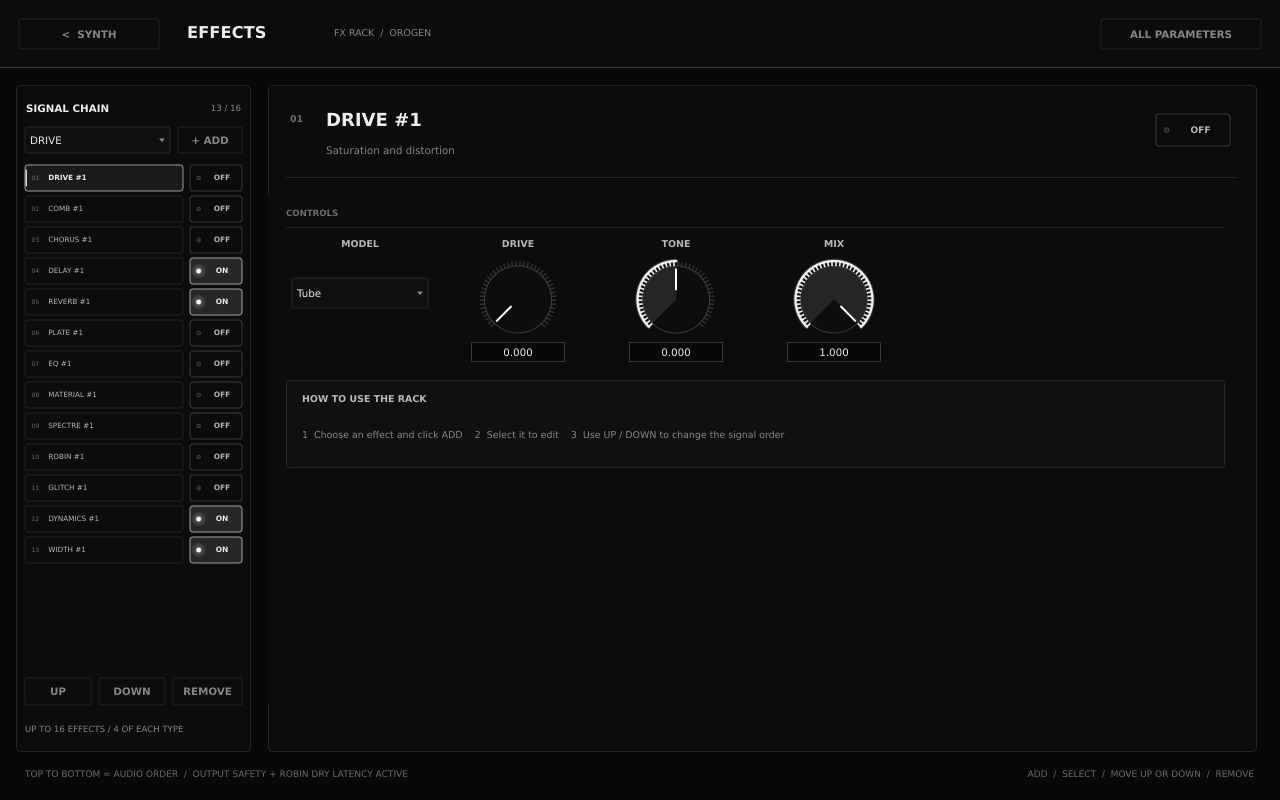
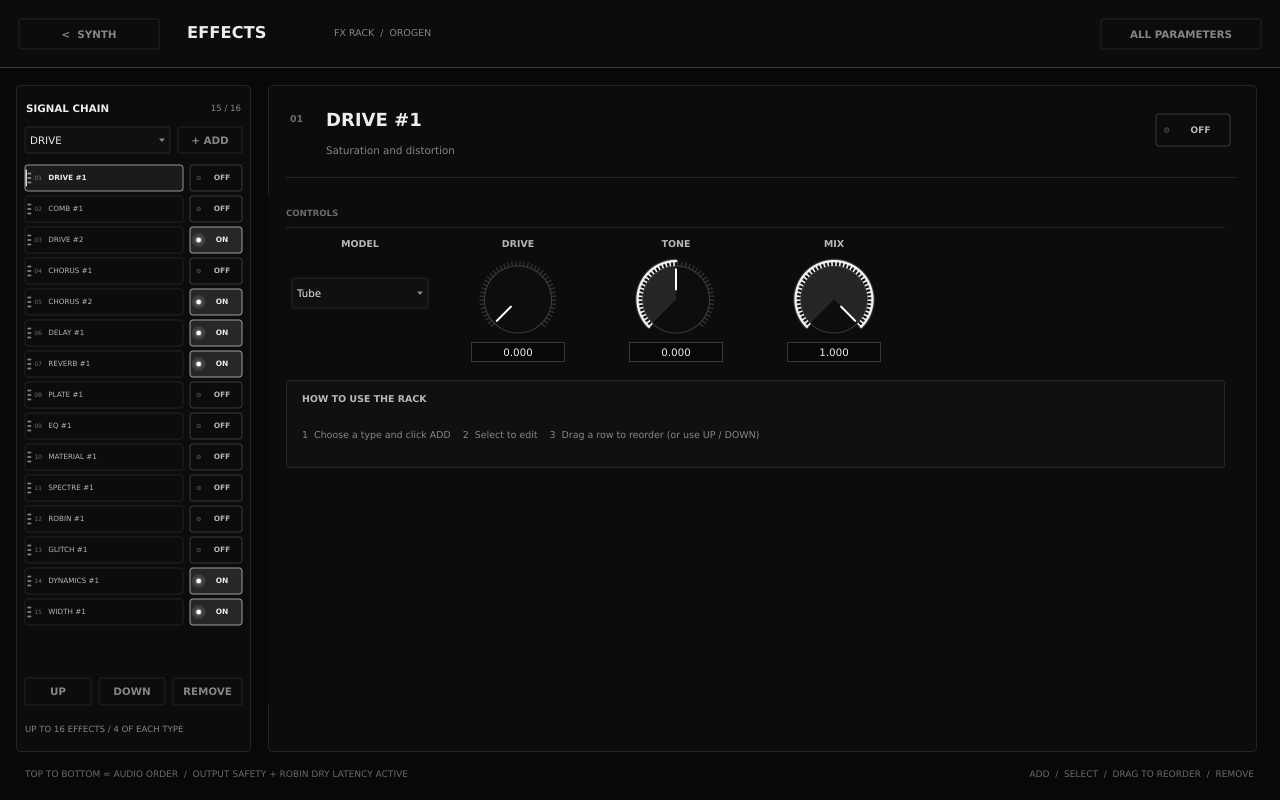
Add FX rack drag reorder

diff --git a/orogen-plugin/src/plugin/PluginEditor.cpp b/orogen-plugin/src/plugin/PluginEditor.cpp
@@ -840,15 +840,41 @@ class OrogenEditor::FxPage : public juce::Component, private juce::Timer
     class SelectButton : public juce::Button
     {
     public:
-        SelectButton (int n, const juce::String& title) : juce::Button (title), number (n) {}
+        SelectButton (int n, const juce::String& title) : juce::Button (title), nodeId (n), position (n) {}
         void setSelected (bool b) { selected = b; repaint(); }
-        void setPosition (int n) { number = n; repaint(); }
+        void setPosition (int n) { position = n; repaint(); }
+        void setDropTarget (bool b) { if (dropTarget != b) { dropTarget = b; repaint(); } }
+        std::function<void (int, juce::Point<int>)> onDragTo;
+        std::function<void (int)> onDragEnd;
+
+        void mouseDown (const juce::MouseEvent& e) override
+        {
+            dragging = false;
+            juce::Button::mouseDown (e);
+        }
+        void mouseDrag (const juce::MouseEvent& e) override
+        {
+            juce::Button::mouseDrag (e);
+            if (! dragging && e.getDistanceFromDragStart() >= 5)
+            {
+                dragging = true;
+                repaint();
+            }
+            if (dragging && onDragTo) onDragTo (nodeId, e.getScreenPosition());
+        }
+        void mouseUp (const juce::MouseEvent& e) override
+        {
+            juce::Button::mouseUp (e);
+            if (dragging && onDragEnd) onDragEnd (nodeId);
+            dragging = false;
+            repaint();
+        }
         void paintButton (juce::Graphics& g, bool over, bool down) override
         {
             auto box = getLocalBounds().toFloat().reduced (0.5f);
-            draw::panel (g, box, 3.0f, selected ? juce::Colour (0xff1b1b1b)
-                                                : over || down ? Palette::panelAlt : Palette::panel,
-                         selected ? Palette::lineHi : Palette::line);
+            const auto outline = dropTarget || dragging || selected ? Palette::lineHi : Palette::line;
+            draw::panel (g, box, 3.0f, selected || dragging ? juce::Colour (0xff1b1b1b)
+                                                : over || down ? Palette::panelAlt : Palette::panel, outline);
             const float scale = juce::jlimit (0.70f, 2.0f, box.getHeight() / 39.0f);
             if (selected)
             {
@@ -856,10 +882,20 @@ class OrogenEditor::FxPage : public juce::Component, private juce::Timer
                 g.fillRoundedRectangle (box.getX() + 1.0f, box.getY() + 7.0f * scale,
                                         2.0f * scale, box.getHeight() - 14.0f * scale, 1.0f);
             }
+            // Three small grip bars make the row's drag affordance visible
+            // without stealing the number or effect name.
+            g.setColour (dragging || over ? Palette::text : Palette::textDim);
+            const float gripX = box.getX() + 4.0f * scale;
+            const float gripW = juce::jmax (4.0f, 5.0f * scale);
+            const float gripH = juce::jmax (1.75f, 2.0f * scale);
+            const float gripGap = juce::jmax (4.5f, 6.0f * scale);
+            for (int i = -1; i <= 1; ++i)
+                g.fillRoundedRectangle (gripX, box.getCentreY() + i * gripGap - gripH * 0.5f,
+                                        gripW, gripH, 0.8f);
             g.setColour (Palette::textFaint);
             g.setFont (orFont (10.0f * scale));
-            g.drawText (juce::String (number + 1).paddedLeft ('0', 2),
-                        juce::Rectangle<float> (box.getX() + 10 * scale, box.getY(), 23 * scale, box.getHeight()),
+            g.drawText (juce::String (position + 1).paddedLeft ('0', 2),
+                        juce::Rectangle<float> (box.getX() + 14 * scale, box.getY(), 18 * scale, box.getHeight()),
                         juce::Justification::centredLeft, false);
             g.setColour (selected ? Palette::text : Palette::paramLabel);
             g.setFont (orFont (12.0f * scale, selected));
@@ -867,10 +903,17 @@ class OrogenEditor::FxPage : public juce::Component, private juce::Timer
                         juce::Rectangle<float> (box.getX() + 34 * scale, box.getY(),
                                                 box.getWidth() - 42 * scale, box.getHeight()),
                         juce::Justification::centredLeft, false);
+            if (dropTarget)
+            {
+                g.setColour (Palette::text);
+                g.fillRect (box.getX() + 5.0f * scale, box.getBottom() - 1.5f * scale,
+                            box.getWidth() - 10.0f * scale, 1.0f * scale);
+            }
         }
     private:
-        int number;
-        bool selected = false;
+        const int nodeId;
+        int position;
+        bool selected = false, dragging = false, dropTarget = false;
     };
 
     class Control : public juce::Component
@@ -1142,7 +1185,7 @@ class OrogenEditor::FxPage : public juce::Component, private juce::Timer
                             w - juce::roundToInt (32*s), juce::roundToInt (18*s), juce::Justification::centredLeft, false);
                 g.setColour (Palette::textDim);
                 g.setFont (orFont (11.0f * s));
-                g.drawFittedText ("1  Choose an effect and click ADD    2  Select it to edit    3  Use UP / DOWN to change the signal order",
+                g.drawFittedText ("1  Choose a type and click ADD    2  Select to edit    3  Drag a row to reorder (or use UP / DOWN)",
                                   juce::Rectangle<int> (x + juce::roundToInt (16*s), y + juce::roundToInt (36*s),
                                                         w - juce::roundToInt (32*s), juce::roundToInt (37*s)),
                                   juce::Justification::centredLeft, 2);
@@ -1226,7 +1269,9 @@ public:
             const auto title = juce::String (kFxModules[module].name) + " #" + juce::String (copy + 1);
             auto* button = new SelectButton (node, title);
             button->onClick = [this, node] { setSelected (node); };
-            button->setTooltip ("Select " + title + " to edit its independent controls");
+            button->onDragTo = [this] (int source, juce::Point<int> screenPoint) { dragRackTo (source, screenPoint); };
+            button->onDragEnd = [this] (int) { dragHighlightNode = -1; refreshDropTarget(); repaint(); };
+            button->setTooltip ("Click to select; drag the grip to reorder in the signal chain");
             button->getProperties().set ("fxSelect", node);
             selectButtons.add (button); addChildComponent (button);
             auto* power = new PowerButton (title + " power");
@@ -1264,6 +1309,30 @@ public:
     void timerCallback() override
     {
         if (isShowing() && proc.rackOrder() != order) refreshOrder();
+    }
+    void refreshDropTarget()
+    {
+        for (int node = 0; node < selectButtons.size(); ++node)
+            selectButtons[node]->setDropTarget (node == dragHighlightNode);
+    }
+    void dragRackTo (int node, juce::Point<int> screenPoint)
+    {
+        const auto source = std::find (order.begin(), order.end(), node);
+        if (source == order.end() || order.empty()) return;
+        const float scale = (float) getWidth() / OrogenEditor::kDesignW;
+        const int localY = getLocalPoint (nullptr, screenPoint).y;
+        const float designY = (float) localY / juce::jmax (0.01f, scale);
+        const int targetIndex = juce::jlimit (0, (int) order.size() - 1,
+                                              juce::roundToInt ((designY - 178.0f) / 31.0f));
+        dragHighlightNode = node;
+        const int from = (int) std::distance (order.begin(), source);
+        if (targetIndex != from && proc.moveRackNode (node, targetIndex - from))
+        {
+            status = "MOVED TO POSITION " + juce::String (targetIndex + 1).paddedLeft ('0', 2);
+            refreshOrder();
+        }
+        refreshDropTarget();
+        repaint();
     }
     void setSelected (int node)
     {
@@ -1361,7 +1430,7 @@ public:
         g.setColour (Palette::textFaint); g.setFont (orFont (10.5f));
         g.drawText ("TOP TO BOTTOM = AUDIO ORDER  /  OUTPUT SAFETY + ROBIN DRY LATENCY ACTIVE",
                     25, 764, 720, 19, juce::Justification::centredLeft, false);
-        g.drawText ("ADD  /  SELECT  /  MOVE UP OR DOWN  /  REMOVE",
+        g.drawText ("ADD  /  SELECT  /  DRAG TO REORDER  /  REMOVE",
                     729, 764, 525, 19, juce::Justification::centredRight, false);
     }
     bool keyPressed (const juce::KeyPress& key) override
@@ -1373,6 +1442,7 @@ private:
     OrogenProcessor& proc;
     RackLookAndFeel rackLookAndFeel;
     int selected = -1;
+    int dragHighlightNode = -1;
     juce::String status { "UP TO 16 EFFECTS / 4 OF EACH TYPE" };
     std::vector<UiTab> tabs;
     std::vector<int> order;

diff --git a/orogen-plugin/tests/test_plugin.cpp b/orogen-plugin/tests/test_plugin.cpp
@@ -3224,14 +3224,64 @@ static void testNativeFxRack (bool scrollOnly = false)
             if (down) click (down->getScreenBounds().getCentre());
             const auto movedDown = p.rackOrder();
             const bool downOk = movedDown.size() == 14 && movedDown[13] == clone;
+            const auto findRackRow = [&] (int wanted) -> juce::Button* {
+                std::function<juce::Button* (juce::Component&)> walk;
+                walk = [&] (juce::Component& parent) -> juce::Button* {
+                    for (auto* child : parent.getChildren()) {
+                        if (auto* b = dynamic_cast<juce::Button*> (child))
+                            if (child->getProperties().getWithDefault ("fxSelect", {}).toString().getIntValue() == wanted) return b;
+                        if (auto* found = walk (*child)) return found;
+                    }
+                    return nullptr;
+                };
+                return walk (*editor.fxOverlay());
+            };
+            juce::String dragTrace;
+            const auto dragRackTo = [&] (int node, int targetIndex) {
+                auto* row = findRackRow (node);
+                if (row == nullptr || targetIndex < 0 || targetIndex >= (int) p.rackOrder().size()) return false;
+                auto start = row->getScreenBounds().getCentre();
+                start.x = row->getScreenBounds().getX() + 6; // grip handle, not the effect label
+                const auto dest = editor.localPointToGlobal (juce::Point<int> (94, 178 + 31 * targetIndex));
+                move (display, -1, start.x, start.y, 0); flush(); mm->runDispatchLoopUntil (25);
+                button (display, 1, 1, 0); flush(); mm->runDispatchLoopUntil (30);
+                int bestPosition = (int) p.rackOrder().size();
+                const int steps = juce::jmax (5, std::abs (dest.y - start.y) / 18);
+                for (int step = 1; step <= steps; ++step) {
+                    const int y = start.y + (dest.y - start.y) * step / steps;
+                    move (display, -1, dest.x, y, 0); flush(); mm->runDispatchLoopUntil (15);
+                    const auto during = p.rackOrder();
+                    const auto current = std::find (during.begin(), during.end(), node);
+                    if (current != during.end()) bestPosition = juce::jmin (bestPosition, (int) std::distance (during.begin(), current));
+                }
+                button (display, 1, 0, 0); flush();
+                move (display, -1, dest.x + 1, dest.y, 0); flush(); mm->runDispatchLoopUntil (120);
+                const auto result = p.rackOrder();
+                const auto found = std::find (result.begin(), result.end(), node);
+                dragTrace += " node=" + juce::String (node) + " target=" + juce::String (targetIndex)
+                    + " start=" + juce::String (start.x) + "," + juce::String (start.y)
+                    + " dest=" + juce::String (dest.x) + "," + juce::String (dest.y)
+                    + " page=" + editor.fxOverlay()->getScreenBounds().toString()
+                    + " editor=" + editor.getScreenBounds().toString()
+                    + " best=" + juce::String (bestPosition)
+                    + " actual=" + juce::String (found == result.end() ? -1 : (int) std::distance (result.begin(), found));
+                return targetIndex < (int) result.size() && result[(size_t) targetIndex] == node;
+            };
+            const bool dragToTop = downOk && dragRackTo (clone, 0);
+            const bool dragBack = dragToTop && dragRackTo (clone, 13);
             auto* remove = findAction (*editor.fxOverlay(), "remove");
             if (remove) click (remove->getScreenBounds().getCentre());
             const auto removed = p.rackOrder();
             const bool removeOk = removed.size() == 13 && std::find (removed.begin(), removed.end(), clone) == removed.end();
-            check (addOk && independent && moveOk && downOk && removeOk,
-                   "XTEST: ADD, независимая ручка с host gesture, UP, DOWN, REMOVE",
-                   juce::String ((int) addOk) + "/" + juce::String ((int) independent) + "/"
-                   + juce::String ((int) moveOk) + "/" + juce::String ((int) downOk) + "/" + juce::String ((int) removeOk));
+            const bool rackUiOk = addOk && independent && moveOk && downOk && dragToTop && dragBack && removeOk;
+            const juce::String rackUiDetail = rackUiOk ? "all seven actions passed"
+                : juce::String ((int) addOk) + "/" + juce::String ((int) independent) + "/"
+                  + juce::String ((int) moveOk) + "/" + juce::String ((int) downOk) + "/"
+                  + juce::String ((int) dragToTop) + "/" + juce::String ((int) dragBack) + "/"
+                  + juce::String ((int) removeOk) + dragTrace;
+            check (rackUiOk,
+                   "XTEST: ADD, независимая ручка, UP/DOWN, drag reorder в начало/конец и REMOVE",
+                   rackUiDetail);
             editor.showPage (52); mm->runDispatchLoopUntil (150);
         }
         auto* slider = findSlider (*editor.fxOverlay(), "fx_chorusDelay");

diff --git a/orogen-plugin/PLUGIN.md b/orogen-plugin/PLUGIN.md
@@ -29,12 +29,12 @@
 
 На главном экране нажмите **FX RACK** или **X**. Выберите тип и нажмите
 **+ ADD**; строки идут в порядке обработки сверху вниз. Выберите строку и
-управляйте её параметрами справа; **UP / DOWN** меняют реальную последовательность,
-**REMOVE** убирает экземпляр, **ON/OFF** не стирает параметры. До 16 строк,
-до 4 экземпляров одного типа. При добавлении новая копия получает настройки
-#1, затем работает независимо. Перетаскивание строк мышью не реализовано.
-В INIT 13 прежних стадий присутствуют и выключены. Чипы главного экрана
-относятся к #1; удалённый #1 показывается как ADD.
+управляйте её параметрами справа; перетащите за насечку, чтобы сразу поставить
+её в цепи. **UP / DOWN** сдвигают на одну позицию, **REMOVE** убирает FX,
+**ON/OFF** сохраняет параметры. До 16 строк и до 4 экземпляров одного типа.
+Новая копия начинает с настроек #1, затем работает независимо. В INIT все 13
+прежних стадий присутствуют и выключены. Чипы главного экрана относятся к #1;
+удалённый #1 показывается как ADD.
 
 Чтобы Material следовал клавишам: откройте **FX RACK**, включите **MATERIAL**,
 установите MIX выше нуля и включите **MIDI FOLLOW** на его странице. Для

diff --git a/gui-spec.md b/gui-spec.md
@@ -10,13 +10,14 @@
 описан исходный макет; описания отсутствия вкладок и зависимости активатора
 от Mix в разделах 1–8 исторические и более не действуют.
 
-## Страница FX (31.10.2026)
+## Страница FX (01.11.2026)
 
 Слева показаны экземпляры в фактическом порядке сигнала сверху вниз. Выберите
-тип и нажмите **+ ADD**, строку редактируйте справа, кнопки **UP / DOWN** меняют
-порядок, **REMOVE** удаляет экземпляр. Максимум 16 строк и 4 экземпляра одного
-типа. При создании копия получает ручки #1, затем её параметры и DSP независимы.
-Перетаскивание строк мышью не реализовано. Одна строка выбирается независимо от
+тип и нажмите **+ ADD**, строку редактируйте справа. Перетаскивайте её за
+насечку, чтобы переставить; **UP / DOWN** перемещают на одну позицию,
+**REMOVE** удаляет экземпляр. Максимум 16 строк и 4 экземпляра одного типа.
+При создании копия получает ручки #1, затем её параметры и DSP независимы.
+Одна строка выбирается независимо от
 ON/OFF; выключение не стирает ручки. Длинные секции прокручиваются, значение
 под ручкой редактируется. Оверлей ALL PARAMETERS содержит все **954** параметра.
 

diff --git a/README.md b/README.md
@@ -57,10 +57,11 @@ Windows/MSVC, настоящие DAW и файловые менеджеры не
 
 На главном экране нажмите **FX RACK** или **X**. В списке слева сигнал идёт
 сверху вниз. Выберите тип в выпадающем списке и нажмите **+ ADD**; выберите
-строку, чтобы настроить её справа. **UP / DOWN** переставляют выделенную
-строку в аудиотракте, **REMOVE** убирает её, **ON/OFF** отключает обработку,
-не стирая ручки. Перетаскивание строк мышью не реализовано. **SYNTH** возвращает
-основной экран; **ALL PARAMETERS** открывает полный оверлей.
+строку, чтобы настроить её справа. Перетаскивайте за маленькую насечку, чтобы
+поставить FX на нужное место; **UP / DOWN** остаются точным способом сдвига
+на одну позицию. **REMOVE** убирает строку, **ON/OFF** отключает обработку,
+не стирая ручки. **SYNTH** возвращает основной экран; **ALL PARAMETERS**
+открывает полный оверлей.
 
 В INIT показаны 13 прежних стадий, все выключены. Можно удалить ненужные строки;
 в цепи не более **16 экземпляров**, одного типа — не более **4**. Новая копия

diff --git a/orogen-plugin/README-LINUX-VST3.md b/orogen-plugin/README-LINUX-VST3.md
@@ -2,9 +2,9 @@
 
 Это собранный Linux-бандл VST3 (Release, JUCE 8.0.15), а не Windows-плагин.
 Ревизия: 9 движков, 954 параметра APVTS, GUI 1280×800.
-Откройте **FX RACK** или **X**; выберите тип и нажмите **+ ADD**. Выберите
-строку и используйте **UP / DOWN** для перестановки аудиотракта, **REMOVE**
-для удаления, **ON/OFF** для обхода. Перетаскивание мышью не реализовано.
+Откройте **FX RACK** или **X**; выберите тип и нажмите **+ ADD**. Строку
+можно перетащить за насечку для перестановки; **UP / DOWN** сдвигают на одну
+позицию, **REMOVE** удаляет, **ON/OFF** обходит эффект.
 INIT содержит 13 выключенных стадий. До 16 экземпляров всего, до 4 одного
 типа; новые копии имеют отдельные параметры и DSP. Порядок и настройки
 сохраняются в DAW state, JSON и банке. Старые 376 ID не переименованы и не
